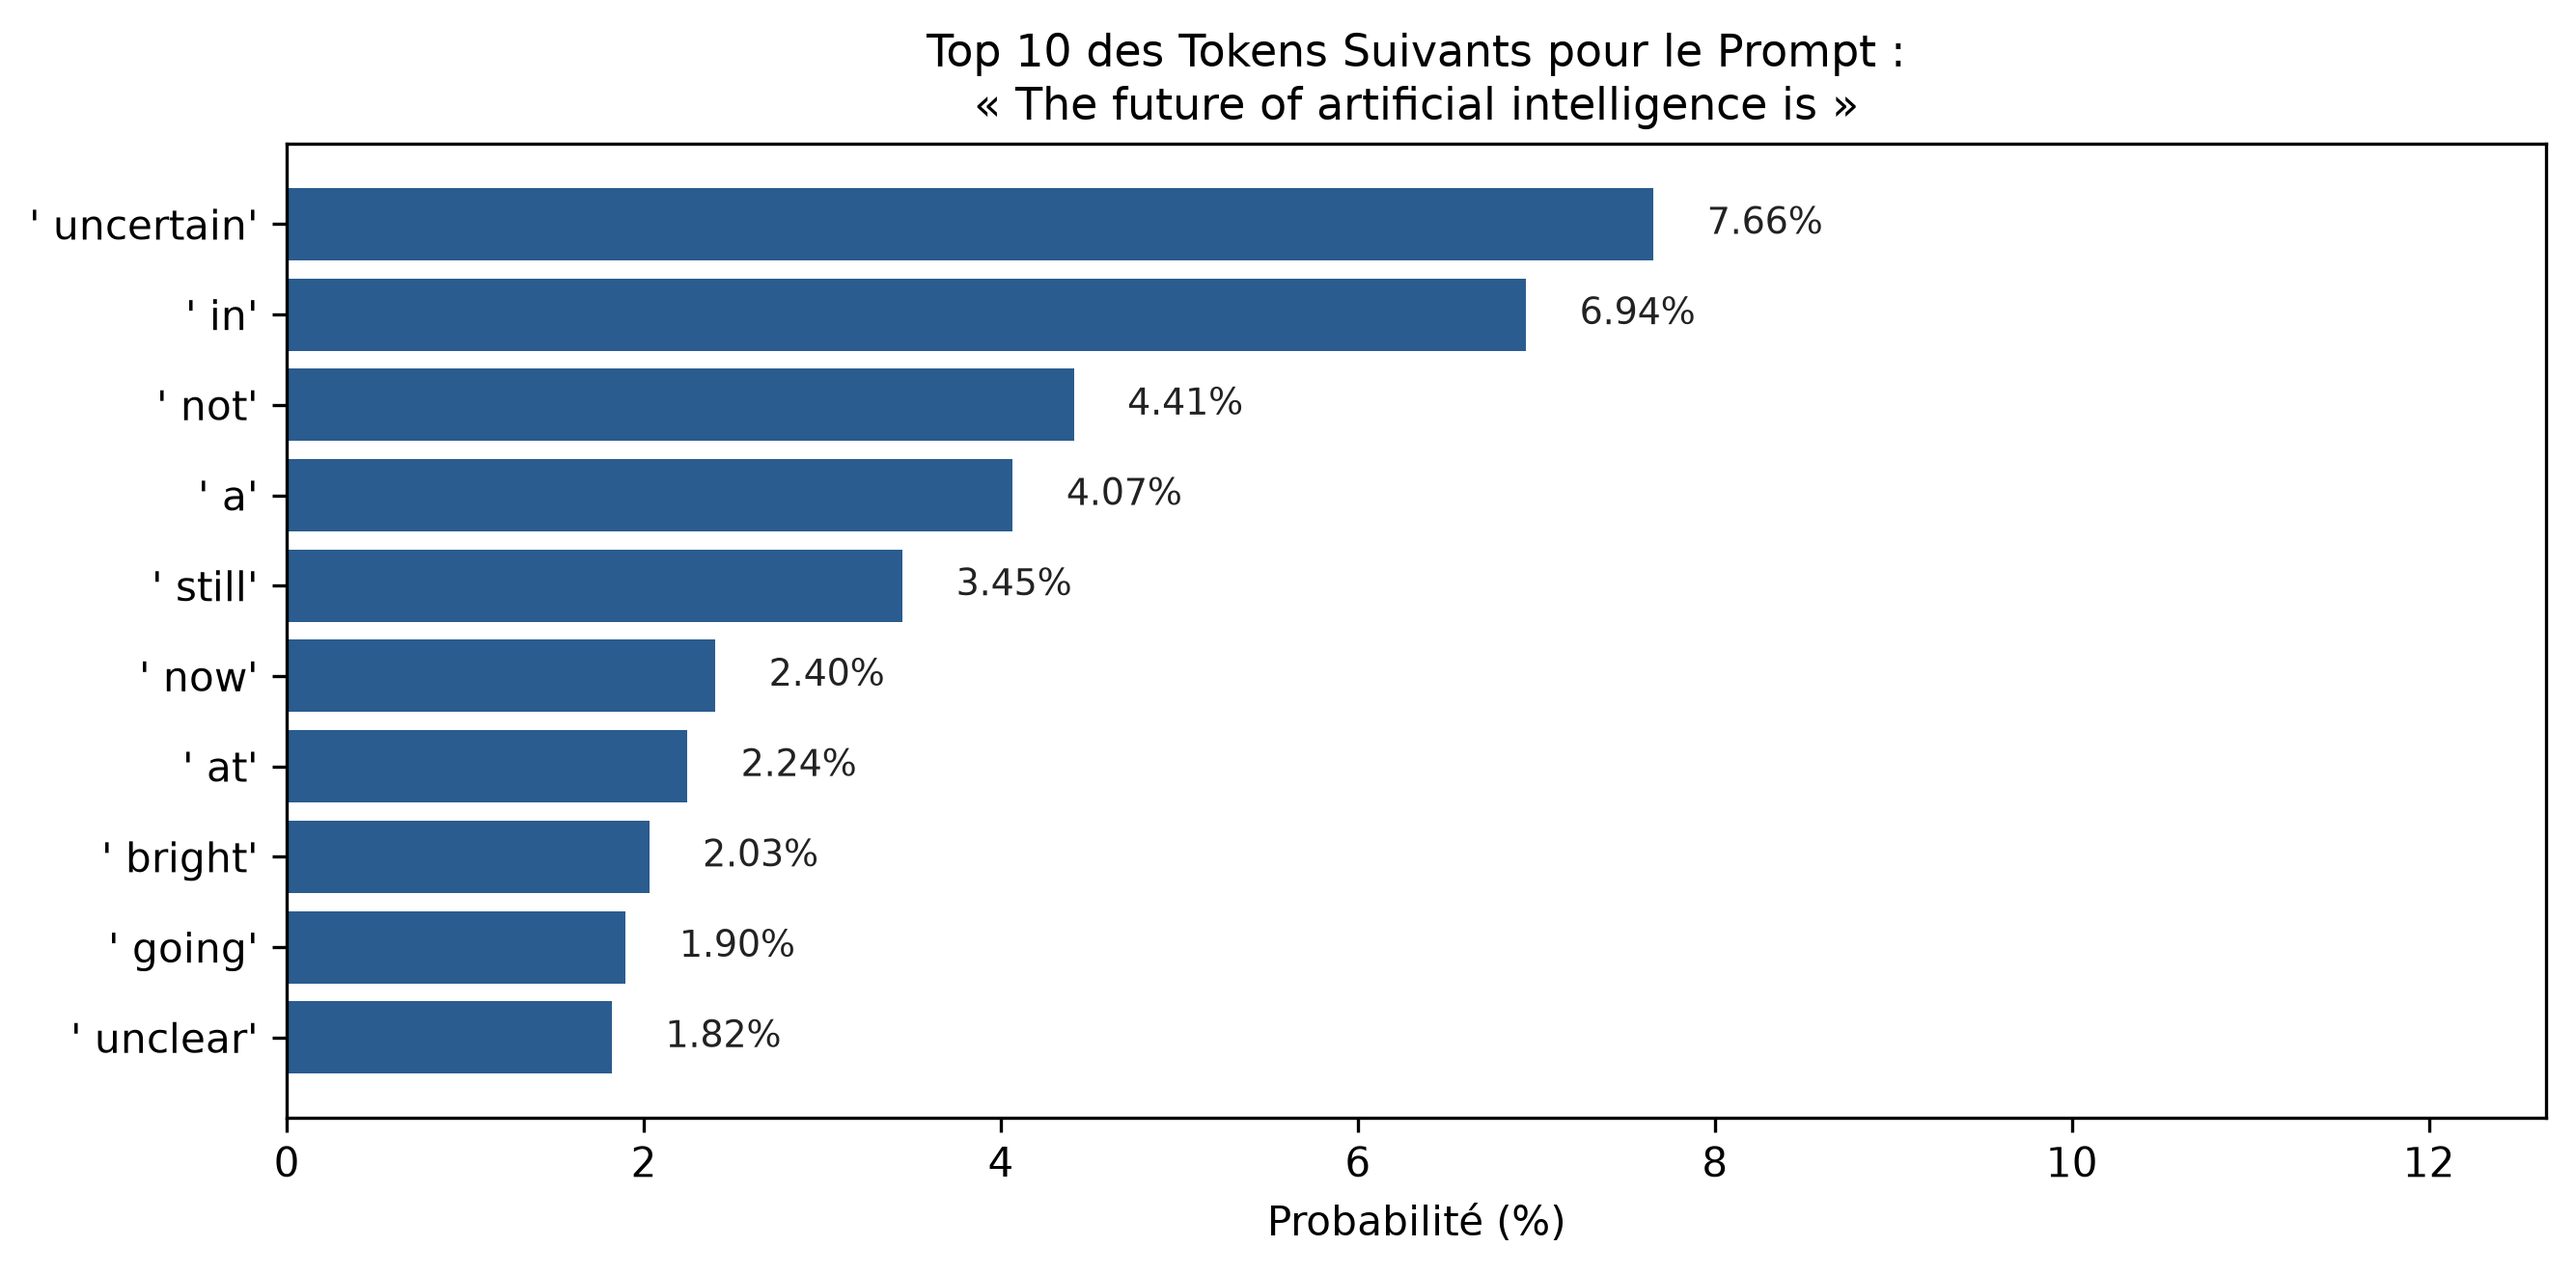
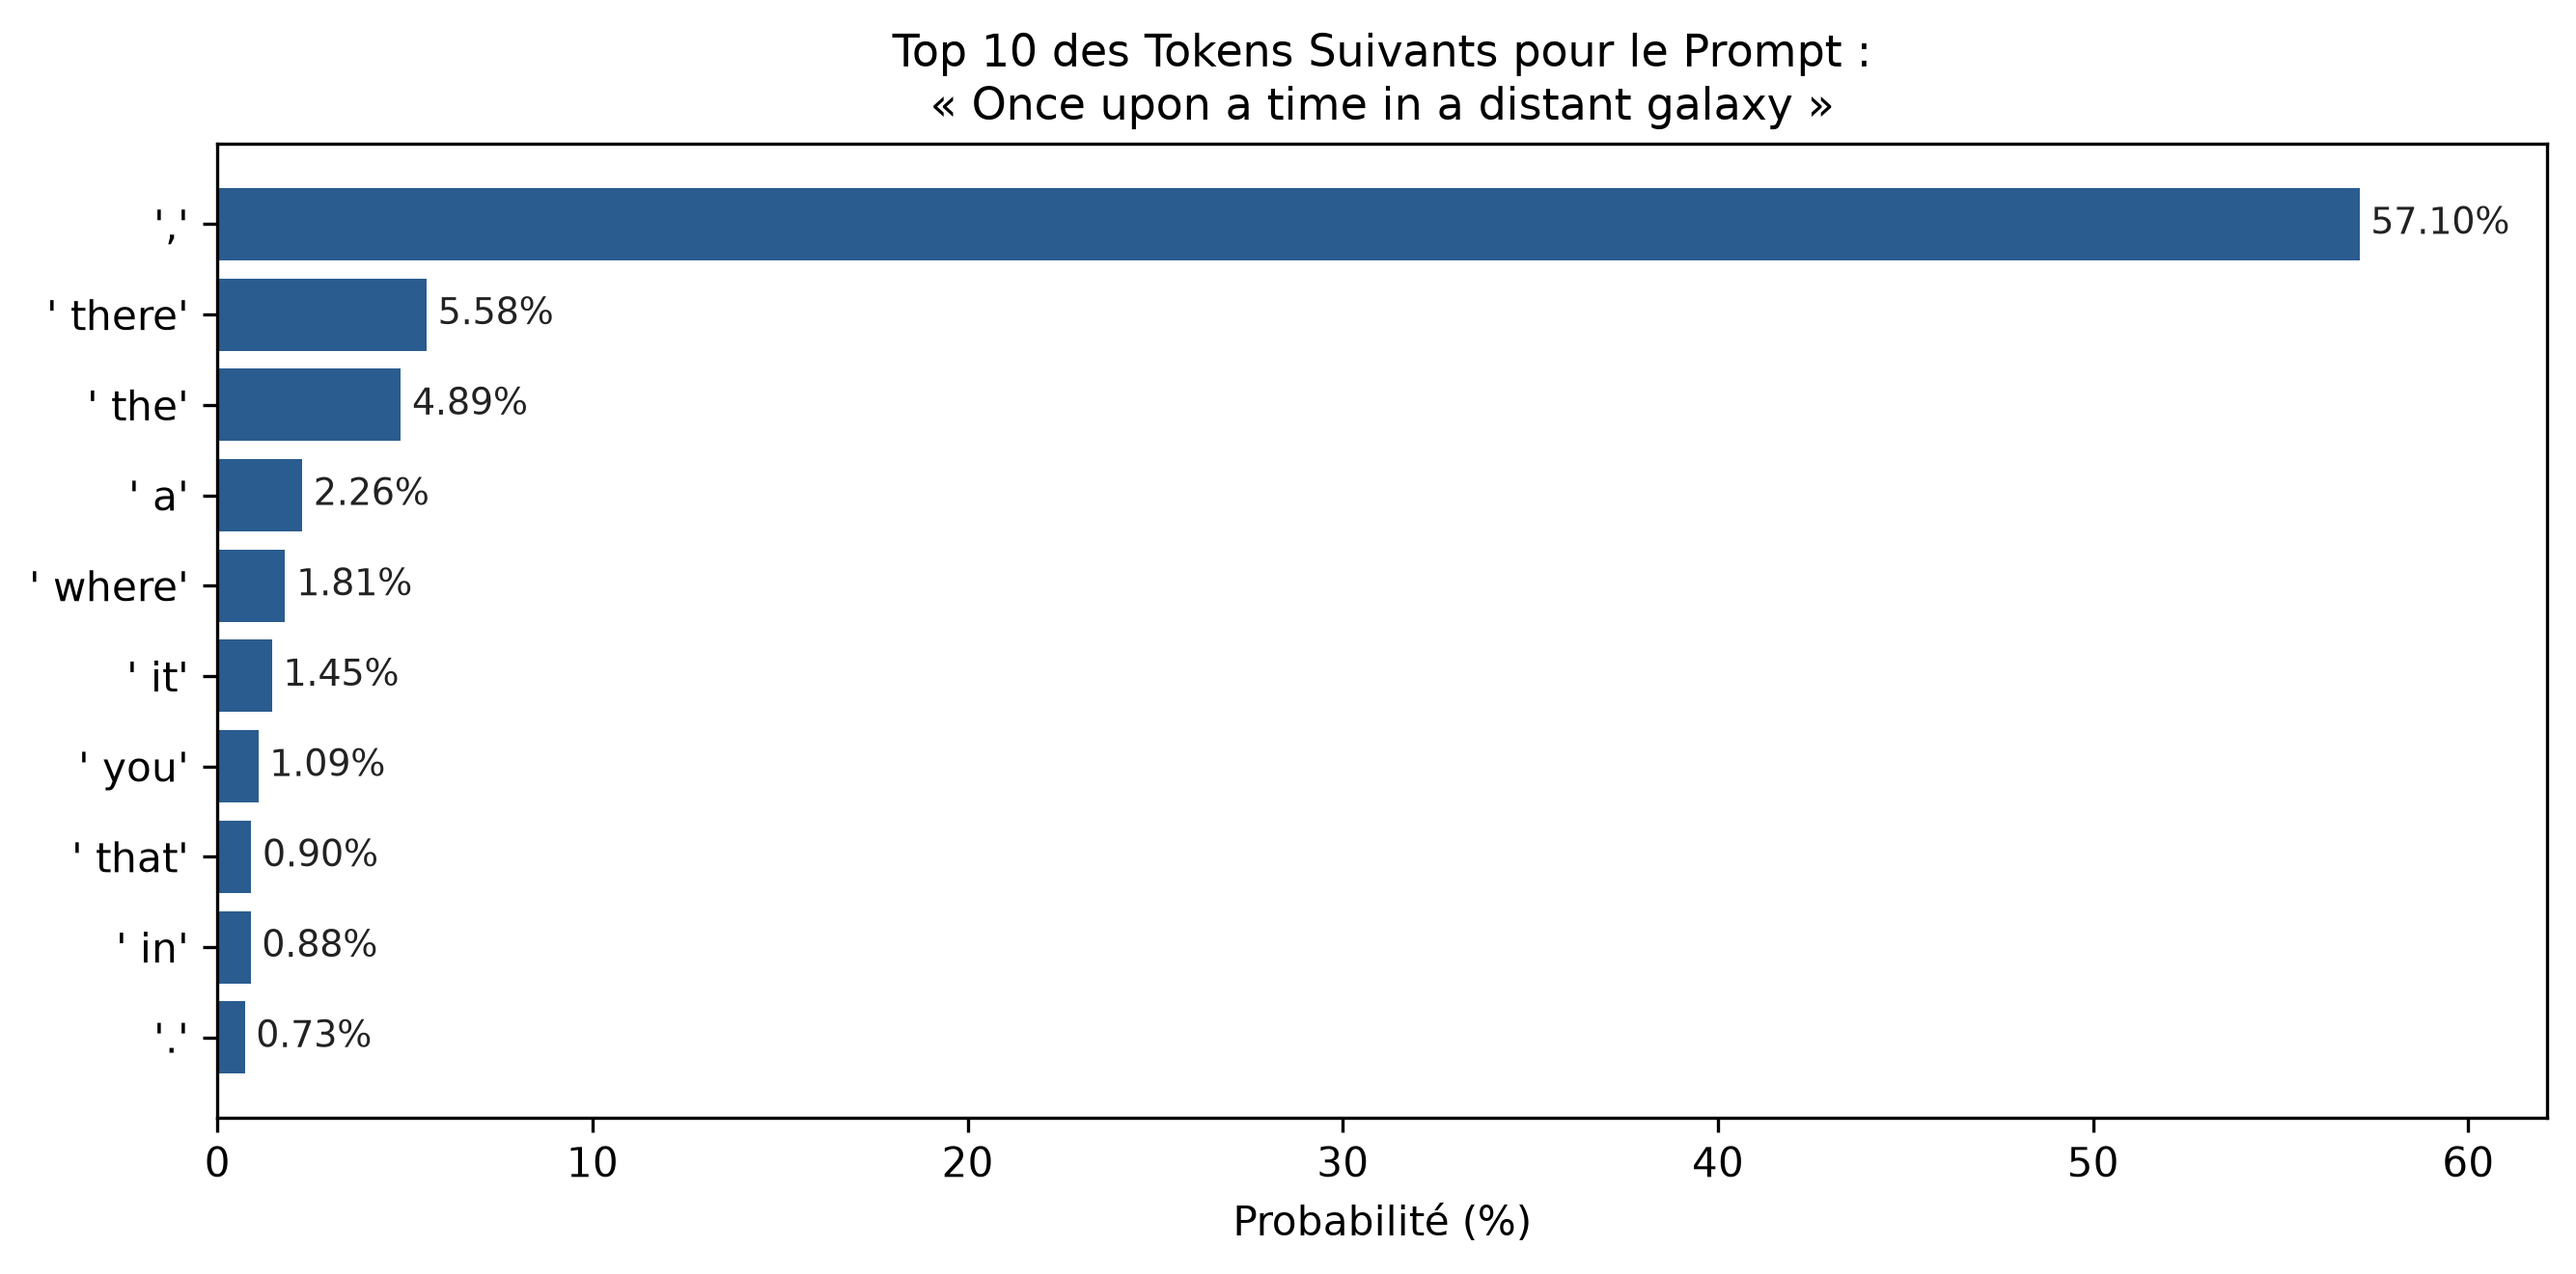
New Practice with LLM !

diff --git a/TP5 - LLM/tp5_llm.py b/TP5 - LLM/tp5_llm.py
@@ -260,7 +260,8 @@ def step2_tokenization_and_embeddings(
 # ==============================================================================
 def step3_text_generation_and_probabilities(
     prompt: str = "The future of artificial intelligence is",
-    model_name: str = "gpt2"
+    model_name: str = "gpt2",
+    max_new_tokens: int = 30
 ):
     """
     Montre comment le LLM calcule les logits, produit une distribution de probabilités,
@@ -328,7 +329,7 @@ def step3_text_generation_and_probabilities(
     # A. Greedy Search
     greedy_ids = causal_model.generate(
         input_ids,
-        max_new_tokens=25,
+        max_new_tokens=max_new_tokens,
         do_sample=False,
         pad_token_id=tokenizer.eos_token_id
     )
@@ -338,7 +339,7 @@ def step3_text_generation_and_probabilities(
     # B. Temperature Sampling (T = 0.7)
     sample_temp_ids = causal_model.generate(
         input_ids,
-        max_new_tokens=25,
+        max_new_tokens=max_new_tokens,
         do_sample=True,
         temperature=0.7,
         pad_token_id=tokenizer.eos_token_id
@@ -349,7 +350,7 @@ def step3_text_generation_and_probabilities(
     # C. Top-K Sampling (k = 50)
     topk_ids = causal_model.generate(
         input_ids,
-        max_new_tokens=25,
+        max_new_tokens=max_new_tokens,
         do_sample=True,
         top_k=50,
         temperature=0.8,
@@ -361,7 +362,7 @@ def step3_text_generation_and_probabilities(
     # D. Top-P (Nucleus) Sampling (p = 0.90)
     topp_ids = causal_model.generate(
         input_ids,
-        max_new_tokens=25,
+        max_new_tokens=max_new_tokens,
         do_sample=True,
         top_p=0.90,
         temperature=0.8,
@@ -584,6 +585,18 @@ def main():
         default="gpt2",
         help="Nom du modèle Hugging Face pré-entraîné à utiliser (défaut : 'gpt2')."
     )
+    parser.add_argument(
+        "--prompt",
+        type=str,
+        default="The future of artificial intelligence is",
+        help="Phrase ou prompt de départ pour la génération de texte (étape 3)."
+    )
+    parser.add_argument(
+        "--max-tokens",
+        type=int,
+        default=30,
+        help="Nombre maximal de nouveaux tokens à générer (défaut : 30)."
+    )
     args = parser.parse_args()
 
     print("\n" + "#" * 80)
@@ -596,7 +609,7 @@ def main():
     elif args.step == 2:
         step2_tokenization_and_embeddings(model_name=args.model)
     elif args.step == 3:
-        step3_text_generation_and_probabilities(model_name=args.model)
+        step3_text_generation_and_probabilities(prompt=args.prompt, model_name=args.model, max_new_tokens=args.max_tokens)
     elif args.step == 4:
         step4_attention_visualization(model_name=args.model)
     elif args.step == 5:
@@ -605,7 +618,7 @@ def main():
         # Exécution intégrale
         step1_introduction(args.model)
         step2_tokenization_and_embeddings(model_name=args.model)
-        step3_text_generation_and_probabilities(model_name=args.model)
+        step3_text_generation_and_probabilities(prompt=args.prompt, model_name=args.model, max_new_tokens=args.max_tokens)
         step4_attention_visualization(model_name=args.model)
         step5_discussion_and_analysis(model_name=args.model)
 
